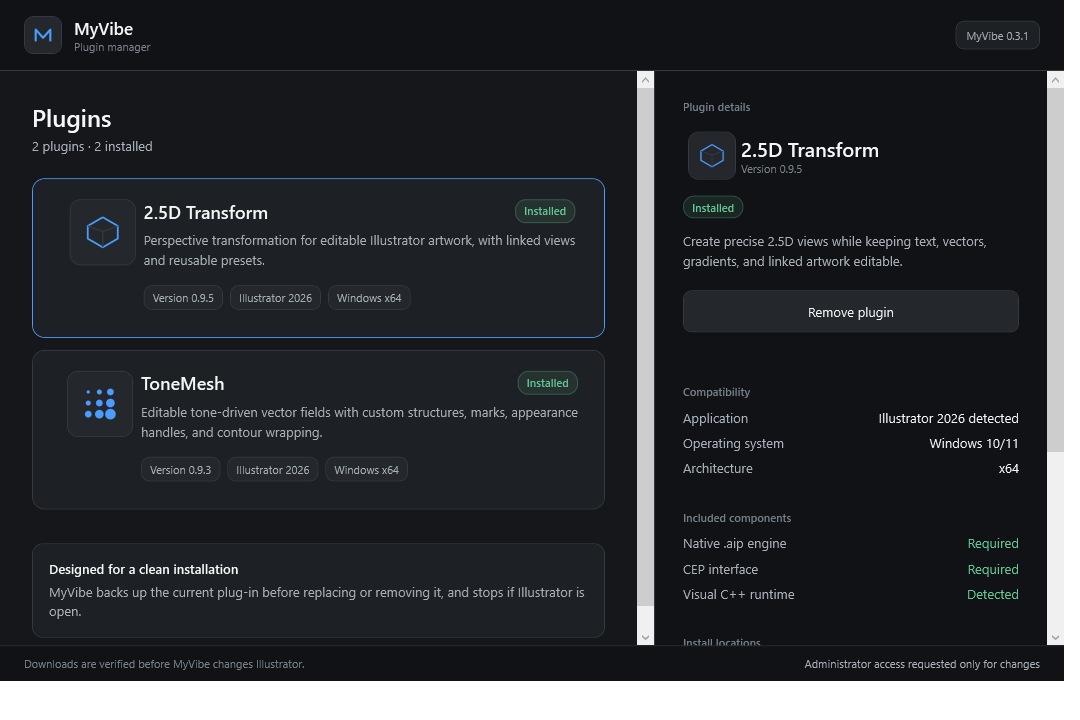
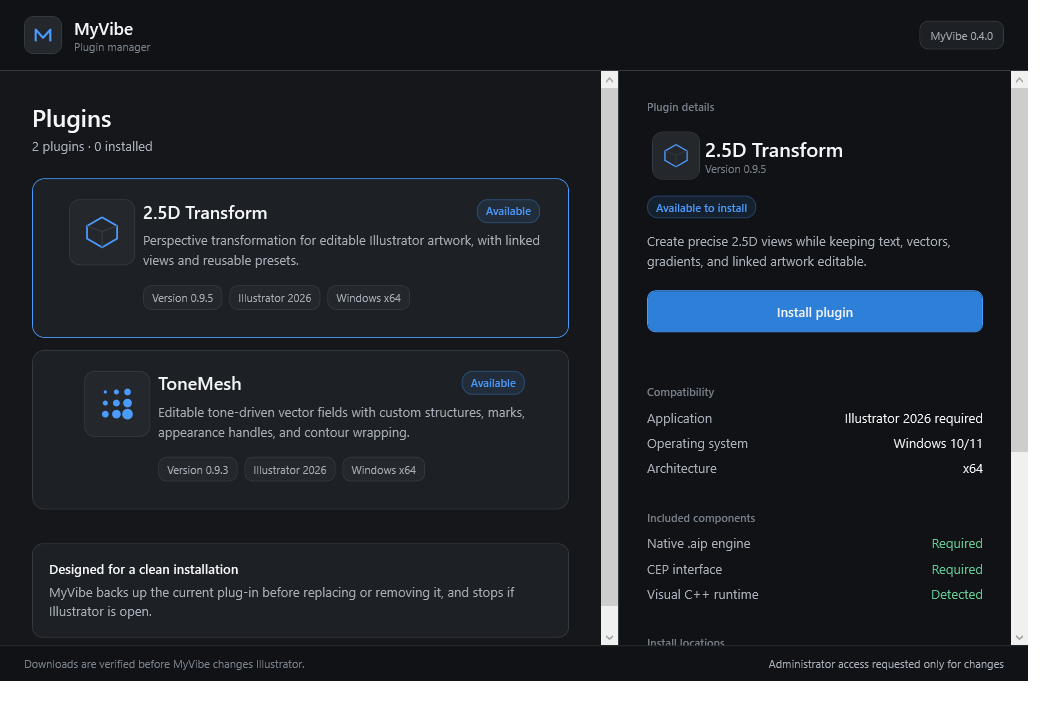
release: prepare MyVibe 0.4 beta

diff --git a/README.md b/README.md
@@ -4,7 +4,7 @@
 
 <h1 align="center">MyVibe</h1>
 
-<p align="center">A focused, safe manager for installing and maintaining creative plug-ins.</p>
+<p align="center">Install and maintain Illustrator plug-ins on Windows and macOS.</p>
 
 <p align="center">
   <img alt="Windows 10 and 11" src="https://img.shields.io/badge/Windows-10%20%7C%2011-4b9cff">
@@ -15,32 +15,32 @@
 
 ![MyVibe plugin manager](assets/myvibe-app.png)
 
-## Install creative tools without manual folder work
+## Download MyVibe 0.4.0 beta
 
-MyVibe shows compatible plug-ins, their installed and available versions, and the applications they support. Installation and removal create a backup first and stop safely when Adobe Illustrator is open.
+| Platform | Download | Requirements |
+| --- | --- | --- |
+| Windows | [Windows x64 ZIP](https://github.com/badrulmokhtar/myvibe/releases/download/myvibe-v0.4.0/MyVibe-0.4.0-beta.1-win-x64.zip) | Windows 10/11 x64 |
+| macOS | [Universal ZIP](https://github.com/badrulmokhtar/myvibe/releases/download/myvibe-v0.4.0/MyVibe-0.4.0-beta.1-macos-universal.zip) | macOS 13+, Apple silicon or Intel |
 
-MyVibe currently manages two plug-ins independently:
+SHA-256 files are published beside both downloads on the [release page](https://github.com/badrulmokhtar/myvibe/releases/tag/myvibe-v0.4.0).
 
-- **2.5D Transform** — non-destructive X/Y/Z and perspective workflows for editable Illustrator artwork.
-- **ToneMesh** — editable tone-driven vector fields with custom marks, structures, appearance handles, and contour wrapping.
+> **Beta signing notice:** These builds are not yet signed with Windows Authenticode or Apple Developer ID. The operating system may show an Unknown Publisher or unidentified developer warning. MyVibe still requires a signed catalog, an official GitHub release URL, and an exact SHA-256 match before installation. See [Unsigned beta installation](docs/UNSIGNED-BETA.md).
 
-## Download
+## Managed plug-ins
 
-Open [Releases](https://github.com/badrulmokhtar/myvibe/releases) and download the latest **MyVibe Windows x64** ZIP. Extract it to a writable user folder, run `MyVibe.exe`, and approve administrator access only when installing, updating, or removing a plug-in.
+- **2.5D Transform 0.9.5** — editable X/Y/Z rotation and perspective views for Illustrator artwork.
+- **ToneMesh 0.9.3** — editable tone-driven vector fields with custom marks, structures, and contour handling.
 
-MyVibe 0.4.0 can update all installed plug-ins from one action. It downloads and verifies every package before requesting one administrator approval.
+Each plug-in can be installed, updated, repaired, or removed independently.
 
-> Upgrading from MyVibe 0.2? Download and extract 0.4.0 once. Future verified manager updates can install and restart in-app from MyVibe 0.3+.
+## What MyVibe checks
 
-> MyVibe is currently a beta. Windows may display an Unknown publisher warning until the production signing certificate is enabled. Beta limitations are always stated in the release notes.
-
-MyVibe 0.4 beta adds a universal macOS manager and a cross-platform catalog. Beta packages can be published without Windows Authenticode or Apple Developer ID certificates, but MyVibe shows an explicit warning before installation and continues to require the signed catalog, official release URL, and exact SHA-256 checksum. See [Unsigned beta installation](docs/UNSIGNED-BETA.md).
-
-## User guide
-
-Follow the [MyVibe user guide](docs/USER-GUIDE.md) for installation, updates, removal, recovery, and the complete 2.5D Transform workflow.
-
-Prefer a printable edition? [Download the PDF user guide](docs/MyVibe-and-2.5D-Transform-User-Guide.pdf).
+- Loads the signed catalog automatically and keeps the last verified copy for offline use.
+- Accepts downloads only from the official MyVibe GitHub release path.
+- Verifies each package against its catalog SHA-256 before changing Illustrator.
+- Stops if Illustrator is open.
+- Creates a backup and rolls back failed changes.
+- Requires administrator approval only when protected application files must change.
 
 ## Compatibility
 
@@ -48,35 +48,24 @@ Prefer a printable edition? [Download the PDF user guide](docs/MyVibe-and-2.5D-T
 | --- | --- |
 | Operating system | Windows 10/11 x64; macOS 13+ universal |
 | Adobe application | Illustrator 2026, version 30.x |
-| MyVibe | 0.4.0 beta for Windows and macOS |
+| MyVibe | 0.4.0 beta |
 | 2.5D Transform | 0.9.5 beta |
 | ToneMesh | 0.9.3 beta |
 
-MyVibe 0.4 verifies [`catalog-v2.json`](catalog-v2.json) against [`catalog-v2.json.sig`](catalog-v2.json.sig), verifies package checksums, and retains the last verified catalog for offline use.
+## Documentation
 
-The existing signed v1 catalog remains the compatibility source for MyVibe
-0.3.x on Windows. [`catalog-v2.schema.json`](catalog-v2.schema.json) defines the
-cross-platform contract used by MyVibe 0.4+, with separate Windows and macOS
-artifacts and platform-appropriate Authenticode or Apple Developer ID policy.
-The live v2 catalog contains the published Windows and macOS plug-in artifacts.
-Unsigned beta artifacts use
-`signature.required: false`; stable artifacts always require platform-trusted
-signatures and the expected publisher identity.
+- [User guide](docs/USER-GUIDE.md)
+- [Unsigned beta installation](docs/UNSIGNED-BETA.md)
+- [Windows build and release](windows/README.md)
+- [macOS build](macos/README.md)
+- [Security policy](SECURITY.md) · [Support](SUPPORT.md) · [Changelog](CHANGELOG.md)
 
 ## Trust and privacy
 
-- Release assets include SHA-256 checksums.
-- Catalog metadata is signed independently from GitHub hosting.
-- Stable Windows assets must carry a trusted Authenticode signature; stable macOS assets must carry the expected Apple Developer ID signature.
-- CEP panels are packaged with Adobe's signing tool.
+- Catalog metadata is signed independently from GitHub hosting, and package hashes are verified before installation.
 - No account, telemetry, advertising, or background service is required.
-- Source code, SDK paths, signing material, and development history are not distributed from this repository.
-
-Read [Security](SECURITY.md), [Support](SUPPORT.md), and the [Changelog](CHANGELOG.md) before reporting a problem.
-
-## Version history
-
-Every published version remains available through [GitHub Releases](https://github.com/badrulmokhtar/myvibe/releases). `catalog.json` points MyVibe to the current compatible versions; releases and tags preserve the history.
+- Private signing keys are never stored in this repository or release archives.
+- Stable releases require platform-trusted signing identities.
 
 ## License
 

diff --git a/docs/USER-GUIDE.md b/docs/USER-GUIDE.md
@@ -2,7 +2,7 @@
 
 This guide explains how to install, update, remove, and recover **2.5D Transform** and **ToneMesh** with **MyVibe**, then covers the complete 2.5D Transform workflow inside Adobe Illustrator.
 
-> Current beta compatibility: Windows 10 or Windows 11, x64; Adobe Illustrator 2026, version 30.x; MyVibe 0.3.1; 2.5D Transform 0.9.5; ToneMesh 0.9.3.
+> Current beta compatibility: Windows 10/11 x64 or macOS 13+ universal; Adobe Illustrator 2026, version 30.x; MyVibe 0.4.0; 2.5D Transform 0.9.5; ToneMesh 0.9.3. Installation steps below cover Windows; see [Unsigned beta installation](UNSIGNED-BETA.md) for macOS opening instructions.
 
 [Download the PDF edition](MyVibe-and-2.5D-Transform-User-Guide.pdf)
 
@@ -26,7 +26,7 @@ This guide explains how to install, update, remove, and recover **2.5D Transform
 
 ## 1. What you are installing
 
-MyVibe is a Windows manager for creative plug-ins. It installs both parts required by 2.5D Transform and ToneMesh:
+MyVibe manages creative plug-ins on Windows and macOS. It installs both parts required by 2.5D Transform and ToneMesh:
 
 - The native `.aip` engine that performs the Illustrator transformation.
 - The CEP interface that provides the main panel and Linked Groups panel.
@@ -133,8 +133,6 @@ The effect updates live. Values are absolute, so moving a value from 50 back to 
 | Rotate Z | Rolls artwork clockwise or counterclockwise |
 | Perspective / Depth | Controls perspective strength from 0 to 100 |
 | Orbit cube | Adjusts X and Y together; Shift-drag adjusts roll |
-
-![Linked artwork using a shared 2.5D transformation in Illustrator](../assets/plugin-in-illustrator.png)
 
 ## 7. Work with multiple objects
 

diff --git a/CHANGELOG.md b/CHANGELOG.md
@@ -2,6 +2,25 @@
 
 All notable public changes are documented here. Releases follow semantic versioning.
 
+## [0.4.0] - 2026-08-21
+
+### Added
+
+- Universal macOS manager for Apple silicon and Intel Macs.
+- Shared signed catalog with Windows x64 and macOS universal artifacts.
+- Automatic catalog loading, verified cache fallback, and independent install, repair, update, and removal for 2.5D Transform and ToneMesh.
+- Repeatable Windows CI build with catalog, lifecycle, and UI-render checks.
+
+### Changed
+
+- Windows manager now uses the v2 catalog while retaining v1 verification for rollback compatibility.
+- GitHub release provides matching Windows and macOS 0.4 beta downloads.
+
+### Security
+
+- Windows and macOS select only their matching catalog artifact and verify its official release URL and SHA-256.
+- Stable catalog entries require Authenticode or Apple Developer ID; unsigned beta entries require explicit user consent.
+
 ## [0.3.1] - 2026-08-15
 
 ### Added
